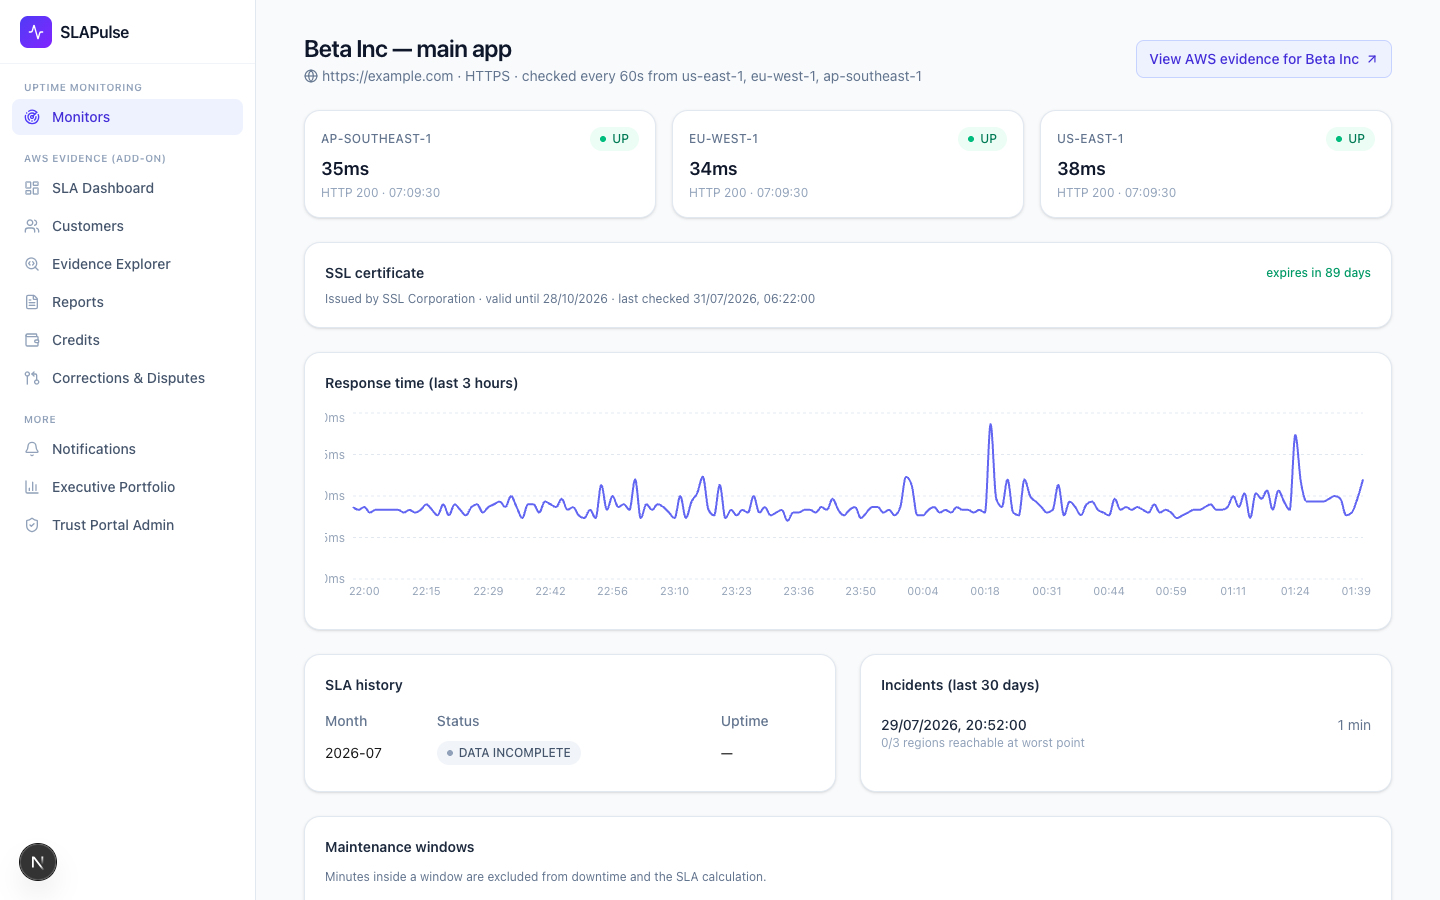
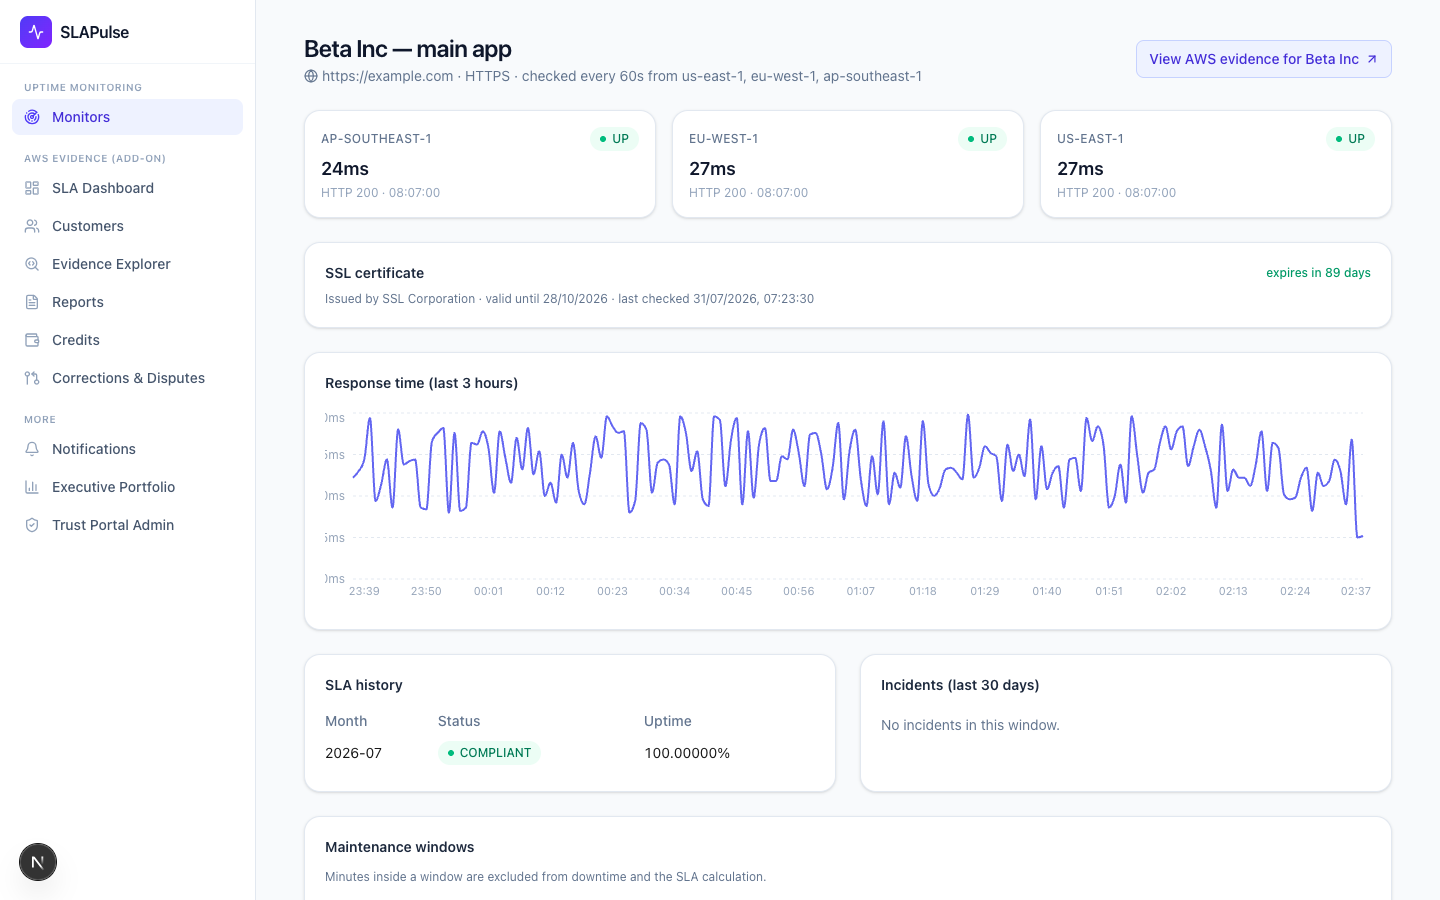
Fix stale/broken demo data in README screenshots
Real uptime monitors could never clear the 98% month-to-date
completeness gate right after creation (a live checker can't produce
data for days it didn't exist), so every screenshot showed
DATA_INCOMPLETE / NaN%. Adds a seed-only backfill script that fills
gaps in the month-to-date window with clearly-synthetic history per
monitor's demo profile, and fixes a real bug in the monitors API route
where a Postgres DECIMAL came back as a string and broke the average
uptime KPI's arithmetic (NaN%). Recaptured all screenshots and the demo
GIF with real COMPLIANT/BREACHED data.

diff --git a/scripts/backfill-monitor-history.ts b/scripts/backfill-monitor-history.ts
@@ -1,0 +1,122 @@
+/**
+ * One-off demo/seed helper: the real uptime checker can only produce one
+ * real data point per minute of real wall-clock time, so a monitor
+ * created a few days into the month can't reach the 98% month-to-date
+ * completeness threshold until the calendar catches up to it. That's
+ * correct fail-closed behavior for a live monitor, but it means a fresh
+ * demo environment shows DATA_INCOMPLETE everywhere.
+ *
+ * This backfills synthetic (clearly-labeled-as-such) historical
+ * per-minute rows from the 1st of the month up to each monitor's actual
+ * creation time, matching each monitor's demo profile, so the seeded
+ * environment demonstrates real COMPLIANT/AT_RISK/BREACHED math instead
+ * of an empty data-incomplete state. It does not touch any row produced
+ * by a real check.
+ *
+ * Run with: npx tsx scripts/backfill-monitor-history.ts
+ */
+import "dotenv/config";
+import { withTenant } from "../src/lib/db";
+import { computeMonitorSlaStatus, currentMonthKey } from "../src/jobs/monitorSlaCalculator";
+import { getMonitor } from "../src/lib/monitors";
+
+const VENDOR_ID = "acme-saas-co";
+
+type Profile = "stable" | "flaky" | "down";
+
+const MONITOR_PROFILES: Record<string, Profile> = {
+  "beta-inc-app": "stable",
+  "gamma-corp-api": "flaky",
+  "broken-endpoint-demo": "down",
+  "public-status-page": "stable",
+};
+
+function floorToMinute(d: Date): Date {
+  const copy = new Date(d);
+  copy.setUTCSeconds(0, 0);
+  return copy;
+}
+
+function seededRandom(seed: number): () => number {
+  let s = seed;
+  return () => {
+    s = (s * 1103515245 + 12345) & 0x7fffffff;
+    return s / 0x7fffffff;
+  };
+}
+
+async function backfillMonitor(monitorId: string, profile: Profile, now: Date) {
+  const monthStart = new Date(Date.UTC(now.getUTCFullYear(), now.getUTCMonth(), 1));
+  const endExclusive = floorToMinute(now);
+  const rand = seededRandom(monitorId.length * 7919 + now.getUTCDate());
+
+  // Fills every minute in the month-to-date window that has no row yet
+  // (ON CONFLICT DO NOTHING below), whether that's because the monitor
+  // didn't exist yet or because the local worker wasn't running (laptop
+  // sleep, etc.) -- real rows produced by the actual checker are never
+  // overwritten.
+  const rows: { minute: Date; isUp: boolean; responseMs: number }[] = [];
+  for (let t = monthStart.getTime(); t < endExclusive.getTime(); t += 60_000) {
+    const minute = new Date(t);
+    let isUp = true;
+    let responseMs = 40 + Math.round(rand() * 60);
+
+    if (profile === "down") {
+      isUp = false;
+      responseMs = 5 + Math.round(rand() * 10);
+    } else if (profile === "flaky") {
+      // ~0.08% of minutes down (~35 min/month), scattered -- enough to
+      // show up as real incidents in the timeline while staying just
+      // above the 99.9% contract, matching the "flaky, occasional
+      // downtime" demo profile shown elsewhere in the product.
+      isUp = rand() > 0.00025;
+      if (!isUp) responseMs = 8;
+    } else {
+      // stable: no synthetic downtime -- any blips come only from real
+      // observed data after the monitor's actual creation time.
+      isUp = true;
+    }
+
+    rows.push({ minute, isUp, responseMs });
+  }
+
+  await withTenant(VENDOR_ID, async (client) => {
+    for (const r of rows) {
+      await client.query(
+        `INSERT INTO monitor_availability_minutes
+           (vendor_id, monitor_id, minute_timestamp, is_up, classification, regions_checked, regions_up, avg_response_time_ms)
+         VALUES ($1,$2,$3,$4,$5,3,$6,$7)
+         ON CONFLICT (vendor_id, monitor_id, minute_timestamp) DO NOTHING`,
+        [VENDOR_ID, monitorId, r.minute.toISOString(), r.isUp, r.isUp ? "UP" : "DOWNTIME", r.isUp ? 3 : 0, r.responseMs]
+      );
+    }
+  });
+
+  console.log(`backfilled up to ${rows.length} gap minutes for ${monitorId} (${profile}) from ${monthStart.toISOString()} to ${endExclusive.toISOString()}`);
+}
+
+async function main() {
+  for (const [monitorId, profile] of Object.entries(MONITOR_PROFILES)) {
+    const monitor = await getMonitor(VENDOR_ID, monitorId);
+    if (!monitor) {
+      console.log(`skip ${monitorId}: not found`);
+      continue;
+    }
+    await backfillMonitor(monitorId, profile, new Date());
+  }
+
+  const month = currentMonthKey();
+  for (const monitorId of Object.keys(MONITOR_PROFILES)) {
+    const monitor = await getMonitor(VENDOR_ID, monitorId);
+    if (!monitor) continue;
+    const result = await computeMonitorSlaStatus(VENDOR_ID, monitor, month, "backfill-script");
+    console.log(`recomputed ${monitorId}:`, result?.status, result?.uptimePct);
+  }
+
+  process.exit(0);
+}
+
+main().catch((err) => {
+  console.error(err);
+  process.exit(1);
+});

diff --git a/src/app/api/monitors/route.ts b/src/app/api/monitors/route.ts
@@ -54,7 +54,7 @@ export async function GET() {
       const latest = latestByMonitor.get(m.monitorId);
       return {
         ...m,
-        uptimePct: status?.uptime_pct ?? null,
+        uptimePct: status?.uptime_pct != null ? Number(status.uptime_pct) : null,
         slaStatus: status?.status ?? "DATA_INCOMPLETE",
         currentlyUp: latest?.is_up ?? null,
         lastCheckedAt: latest?.minute_timestamp ?? null,
